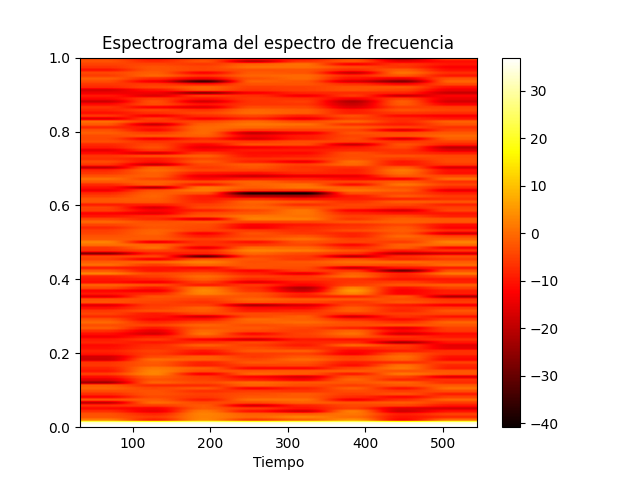
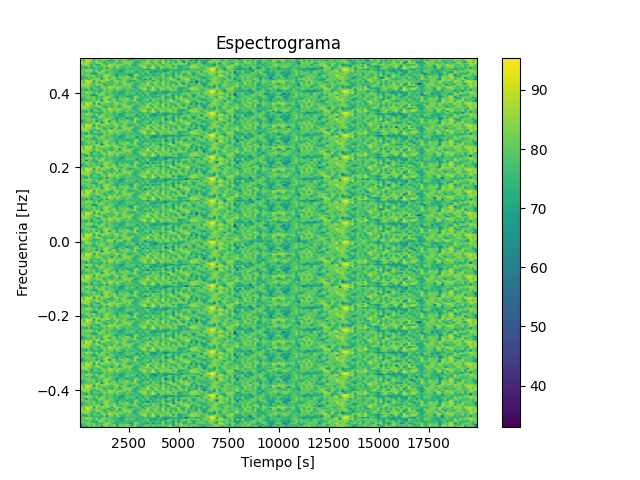
ajuste de resolución de imágenes
Genera patrones de longitud que hay que eliminar de alguna manera

diff --git a/IMGgenerator/prueba.py b/IMGgenerator/prueba.py
@@ -1,12 +1,11 @@
 from matplotlib import pyplot as plt
 import numpy as np
-import cv2
-import os
 
 #TODO cambiar a espectograma   
 
 # Mandar archivos para revisar la lista
-nombres_archivos = ["OpCode/goodware/IPv6addr.txt", "OpCode/goodware/vstp.txt", "OpCode/goodware/tickle_tcp.txt"]
+nombres_archivos = ["OpCode/malware/0a65d76177f165424a529f35c2ec4a5d.txt", "OpCode/malware/0c49f4b9c1357bbf92b3a0b2430ab49f.txt",
+                     "OpCode/malware/0d2295388bd65c7ae77fa115f827bf14.txt", "OpCode/goodware/IPv6addr.txt", "OpCode/goodware/vstp.txt", "OpCode/goodware/tickle_tcp.txt"]
 ruta_diccionario = 'diccionario.txt'
 ruta_imagenes = 'img'
 diccionario = {}
@@ -18,7 +17,24 @@ with open(ruta_diccionario, 'r') as archivo_diccionario:
         instruccion, valor_numerico = linea.strip().split(':')
         # Agregar la instrucción y el valor numérico al diccionario
         diccionario[instruccion.strip()] = int(valor_numerico.strip())
-    print(diccionario)
+    #Sprint(diccionario)
+        
+# Longitud objetivo común
+longitud_objetivo = 20000  # Por ejemplo, la longitud más corta entre todas las señales
+
+# Normalizar la longitud de las señales
+def normalizar_longitud(datos, longitud_objetivo):
+    if len(datos) > longitud_objetivo:
+        # Truncar las señales más largas
+        datos_normalizados = datos[:longitud_objetivo]
+    else:
+        # Rellenar las señales más cortas con ceros
+        # Calcular cuántas veces es necesario leer la señal para alcanzar el tamaño deseado
+        veces_a_leer = int(np.ceil(longitud_objetivo / len(datos)))
+        # Volver a leer los valores de la señal original
+        datos_normalizados = np.tile(datos, veces_a_leer)[:longitud_objetivo]
+        #datos_normalizados = np.pad(datos, (0, longitud_objetivo - len(datos)), mode='constant')
+    return datos_normalizados
 
 for nombre_archivo in nombres_archivos:
     try:
@@ -31,31 +47,38 @@ for nombre_archivo in nombres_archivos:
                 codigo = elementos[1].strip()
                 
                 # Asignar a los strings en codigo sus respectivos valores del diccionario
-                codigo_con_valores = [str(diccionario.get(c, 0)) for c in codigo.split()]
-                print(codigo_con_valores)
+                codigo_con_valores = [diccionario.get(c, 0) for c in codigo.split()]
+                #print(codigo_con_valores)
+
+                # Normalizar la longitud de los datos
+                datos_normalizados = normalizar_longitud(np.array(codigo_con_valores, dtype=float), longitud_objetivo)
+
                 # Convertir los datos a un array de tipo float
-                datos = np.array(codigo_con_valores, dtype=float)
+                #datos = np.array(datos_normalizados, dtype=float)
+
+                print(len(datos_normalizados))
 
                 # Aplicar la FFT a los datos
-                fft_resultado = np.fft.fft(datos)
+                fft_resultado = np.fft.fft(datos_normalizados)
 
-                # Calcular la magnitud del espectro de frecuencia
-                magnitud_espectro = np.abs(fft_resultado)
+                frecuencia_muestreo = 1
 
-                # Aplicar transformación logarítmica
-                magnitud_log = np.log1p(magnitud_espectro)
-                # Calcular el espectrograma del espectro de frecuencia
-                plt.clf()
-                plt.specgram(magnitud_log, cmap='hot')
-                plt.colorbar()
-                plt.title('Espectrograma del espectro de frecuencia')
-                plt.xlabel('Tiempo')
+                # Calcular el espectrograma
+                espectrograma = plt.specgram(fft_resultado, Fs=frecuencia_muestreo, cmap='viridis')
+
+                # Mostrar el espectrograma
+                
+                plt.xlabel('Tiempo [s]')
+                plt.ylabel('Frecuencia [Hz]')
+                plt.title('Espectrograma')
+                plt.colorbar(mappable=espectrograma[3]) 
                 nombre_archivo = nombre_archivo.split("/")
                 nombre_archivo = nombre_archivo[2]
                 nombre_archivo = nombre_archivo.split(".")
                 nombre_archivo = nombre_archivo[0]
                 plt.savefig('img/'+nombre_archivo+'_imagen.png')
                 #plt.show()
+                plt.clf()
 
     except FileNotFoundError:
         print("El archivo especificado no se encontró.")
